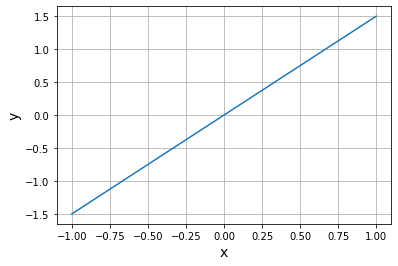
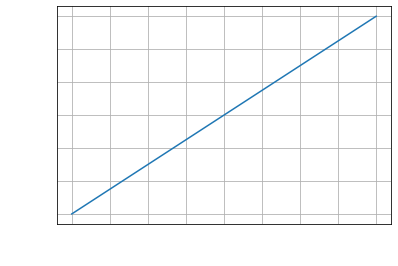
test

diff --git a/_posts/2022-07-12-변수, 상수.md b/_posts/2022-07-12-변수, 상수.md
@@ -14,7 +14,7 @@ katex : True
 - 변수: 변화하는수
 - 상수: 일정한,변화하지 않는수
 
-변수는 x와y등의 알파벳을 이용해서 자주 나타냅니다. 상수는 1,2,3,-5등의 수치로 표기합니다. 또한 a나 b 등의 알파벳,$ \alpha , B $ 등의 그리스 문자로도 자주 나타냅니다.
+변수는 x와y등의 알파벳을 이용해서 자주 나타냅니다. 상수는 1,2,3,-5등의 수치로 표기합니다. 또한 a나 b 등의 알파벳,$$ \alpha , B $$ 등의 그리스 문자로도 자주 나타냅니다.
 
 ## 변수와 상수의 예
 
@@ -38,8 +38,10 @@ x = np.linspace(-1,1) # x: 변수 -1부터 1의 범위
 y = a * x # y: 변수
 
 plt.plot(x,y)
-plt.xlabel("x",size=14)
-plt.ylabel("y",size=14)
+plt.tick_params(axis='x', colors='white')
+plt.tick_params(axis='y', colors='white')
+plt.xlabel("x",size=14,color='white')
+plt.ylabel("y",size=14,color='white')
 plt.grid()
 plt.show()
 ```
